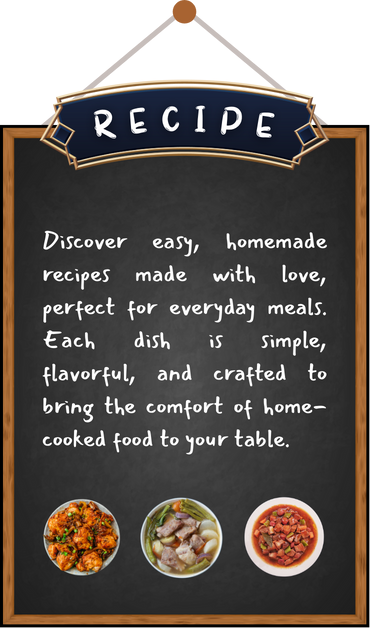
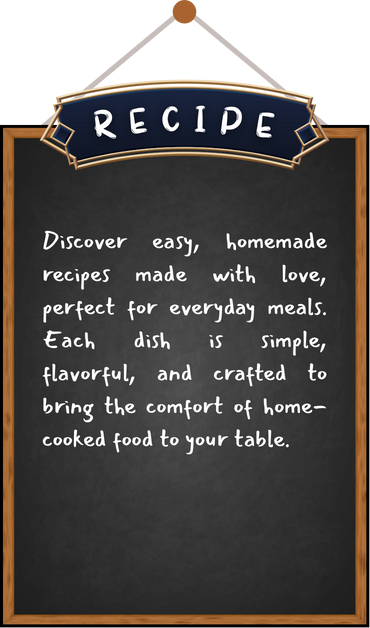
categories

Changed region(s): [[0.6541, 0.7866, 0.8919, 0.9379], [0.3568, 0.7866, 0.6243, 0.9379], [0.1189, 0.7866, 0.327, 0.9379]]

diff --git a/categories.html b/categories.html
@@ -19,31 +19,26 @@
     .container {
       display: flex;
       align-items: flex-end;
-      gap: 250px; /* Distance between recipe and resto */
+      gap: 250px;
     }
 
     .category-img {
       height: auto;
-      cursor: pointer;
-      transition: box-shadow 0.3s ease;
       border-radius: 15px;
+      transition: box-shadow 0.3s ease;
     }
 
     .category-img:hover {
       box-shadow: 0 0 25px 10px rgb(255, 255, 255);
     }
 
-    .img-recipe,
-    .img-resto {
-      width: 500px;
-    }
-
     .img-random {
       width: 200px;
-      transform: translateY(-550px); /* Slightly higher */
+      transform: translateY(-550px);
       z-index: 1;
-      margin: 0 -80px; /* Pulls image inward to balance spacing */
-      animation: pulseGlow 2s infinite ease-in-out; /* Pulsing glow effect */
+      margin: 0 -80px;
+      animation: pulseGlow 2s infinite ease-in-out;
+      cursor: pointer;
     }
 
     @keyframes pulseGlow {
@@ -57,34 +52,136 @@
         box-shadow: 0 0 10px -10px rgb(255, 255, 255);
       }
     }
+
+    .carousel-wrapper {
+      position: relative;
+      width: 500px;
+      cursor: default;
+    }
+
+    .board-img {
+      width: 100%;
+      border-radius: 15px;
+    }
+
+    .board-clickable {
+      cursor: pointer;
+    }
+
+    .food-img {
+      position: absolute;
+      bottom: 70px;
+      left: 50%;
+      transform: translateX(-50%);
+      width: 120px;
+      height: 120px;
+      object-fit: contain;
+      display: none;
+    }
+
+    .food-img.active {
+      display: block;
+    }
+
+    .arrow {
+      position: absolute;
+      bottom: 70px;
+      font-size: 3rem;
+      color: white;
+      background-color: rgba(0, 0, 0, 0.4);
+      border-radius: 50%;
+      padding: 5px 12px;
+      cursor: pointer;
+      user-select: none;
+      z-index: 10;
+    }
+
+    .arrow.left {
+      left: 10%;
+    }
+
+    .arrow.right {
+      right: 10%;
+    }
   </style>
 </head>
 <body>
   <div class="container">
-    <!-- Left: Recipe -->
-    <img
-  src="images/recipeboard.png"
-  alt="Recipe"
-  class="category-img img-recipe"
-  onclick="location.href='listofgames.html?category=home_recipe'"
-/>
 
-    <!-- Center: Random (slightly higher with pulsing) -->
-    <!-- Center: Random (slightly higher with pulsing) -->
-<img
-src="images/randomboard.png"
-alt="Can't Decide?"
-class="category-img img-random"
-onclick="location.href='Game_SpinTheWheel/wheel.html?category=random'"
-/>
+    <!-- Recipe board: whole board is clickable, no more image carousel or arrows -->
+    <div class="carousel-wrapper" onclick="location.href='listofgames.html?category=home_recipe'">
+      <img src="images/recipeboard.png" class="board-img board-clickable" />
+</div>
 
-    <!-- Right: Resto -->
-    <img
-  src="images/restoboard.png"
-  alt="Resto"
-  class="category-img img-resto"
-  onclick="location.href='listofgames.html?category=resto'"
-/>
+
+    <!-- Random button -->
+      <img
+        src="images/randomboard.png"
+        alt="Can't Decide?"
+        class="category-img img-random"
+        onclick="location.href='Game_SpinTheWheel/wheel.html?category=random'"
+    />
+
+    <!-- Resto board: board not clickable, only the carousel images are -->
+    <div class="carousel-wrapper">
+      <img src="images/restoboard.png" class="board-img" />
+      <img src="images/jabee.png" class="food-img active" onclick="location.href='listofgames.html?category=home_recipe'" />
+      <img src="images/mcdo.png" class="food-img" onclick="location.href='listofgames.html?category=home_recipe'" />
+      <img src="images/kfc.png" class="food-img" onclick="location.href='listofgames.html?category=home_recipe'" />
+      <div class="arrow left" onclick="prevResto();">&#8592;</div>
+      <div class="arrow right" onclick="nextResto();">&#8594;</div>
+    </div>
+
   </div>
+
+  <script>
+    // RECIPE
+    let currentRecipe = 0;
+    const recipeImages = [
+      document.getElementById('recipe0'),
+      document.getElementById('recipe1'),
+      document.getElementById('recipe2')
+    ];
+
+    function updateRecipe() {
+      recipeImages.forEach((img, index) => {
+        img.classList.toggle('active', index === currentRecipe);
+      });
+    }
+
+    function prevRecipe() {
+      currentRecipe = (currentRecipe - 1 + recipeImages.length) % recipeImages.length;
+      updateRecipe();
+    }
+
+    function nextRecipe() {
+      currentRecipe = (currentRecipe + 1) % recipeImages.length;
+      updateRecipe();
+    }
+
+    setInterval(nextRecipe, 10000);
+
+    // RESTO
+    let currentResto = 0;
+    const restoImages = document.querySelectorAll('.container .carousel-wrapper:last-child .food-img');
+
+    function updateResto() {
+      restoImages.forEach((img, index) => {
+        img.classList.toggle('active', index === currentResto);
+      });
+    }
+
+    function prevResto() {
+      currentResto = (currentResto - 1 + restoImages.length) % restoImages.length;
+      updateResto();
+    }
+
+    function nextResto() {
+      currentResto = (currentResto + 1) % restoImages.length;
+      updateResto();
+    }
+
+    setInterval(nextResto, 10000);
+  </script>
 </body>
 </html>
